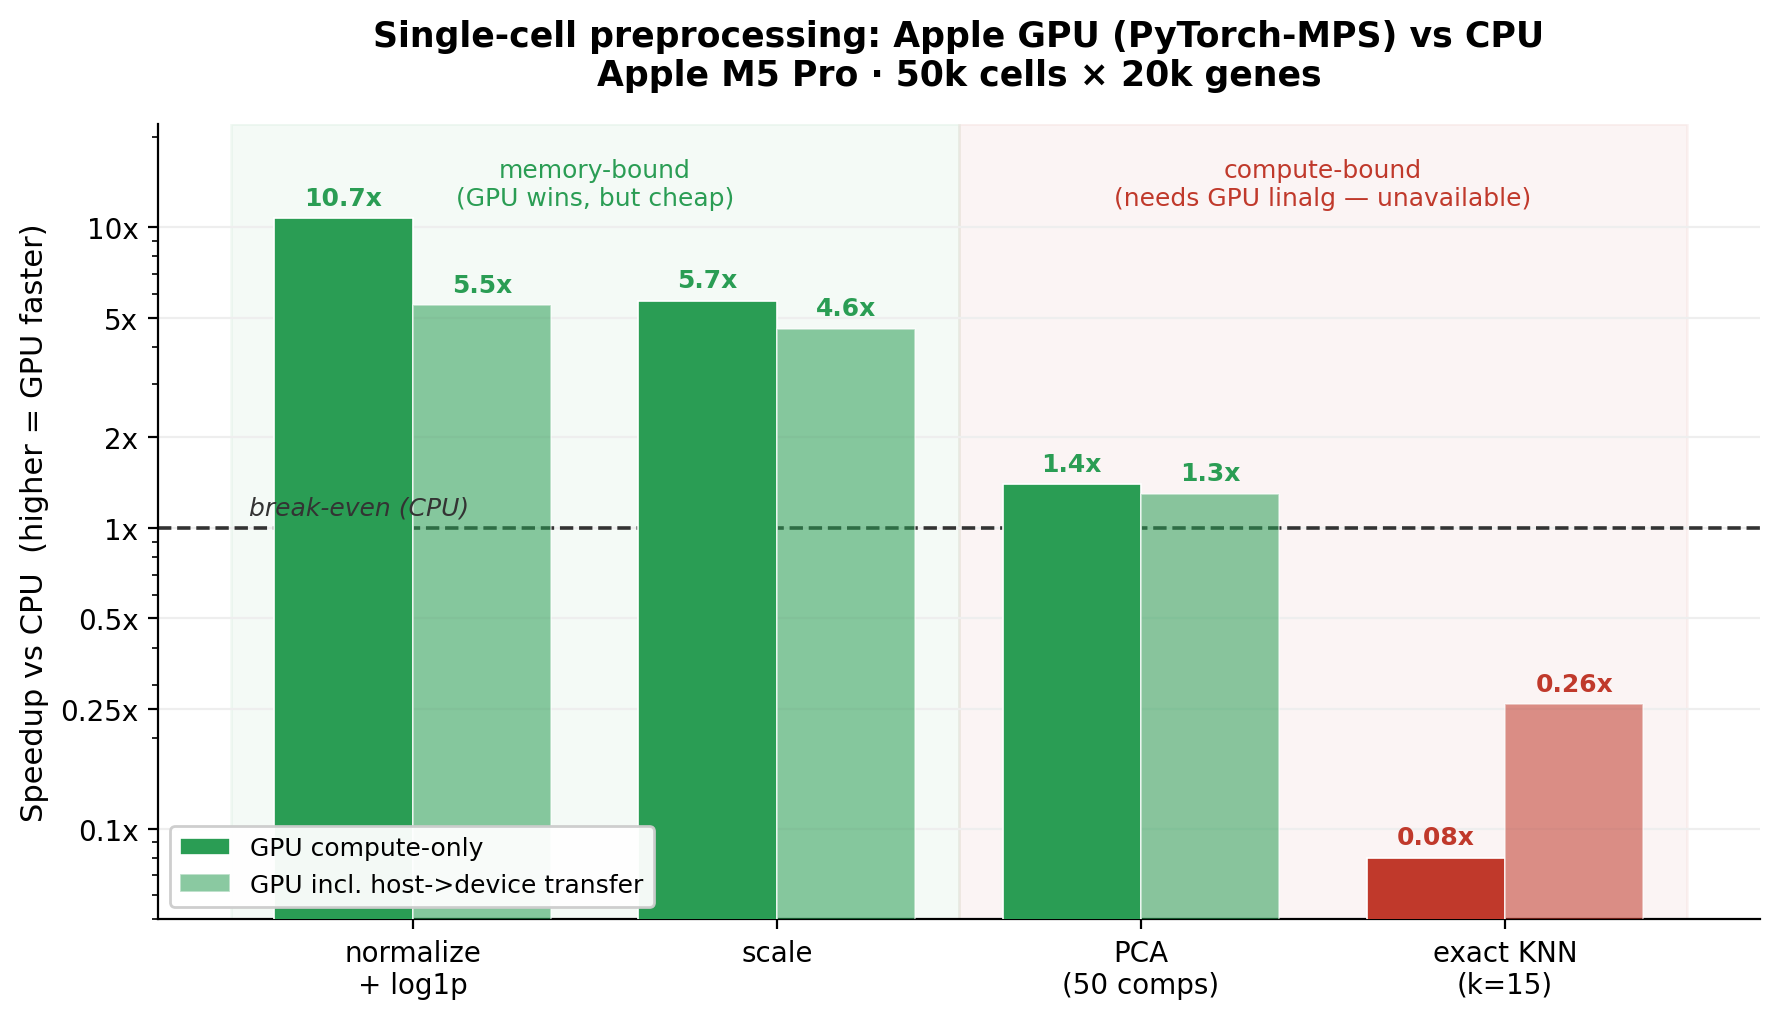
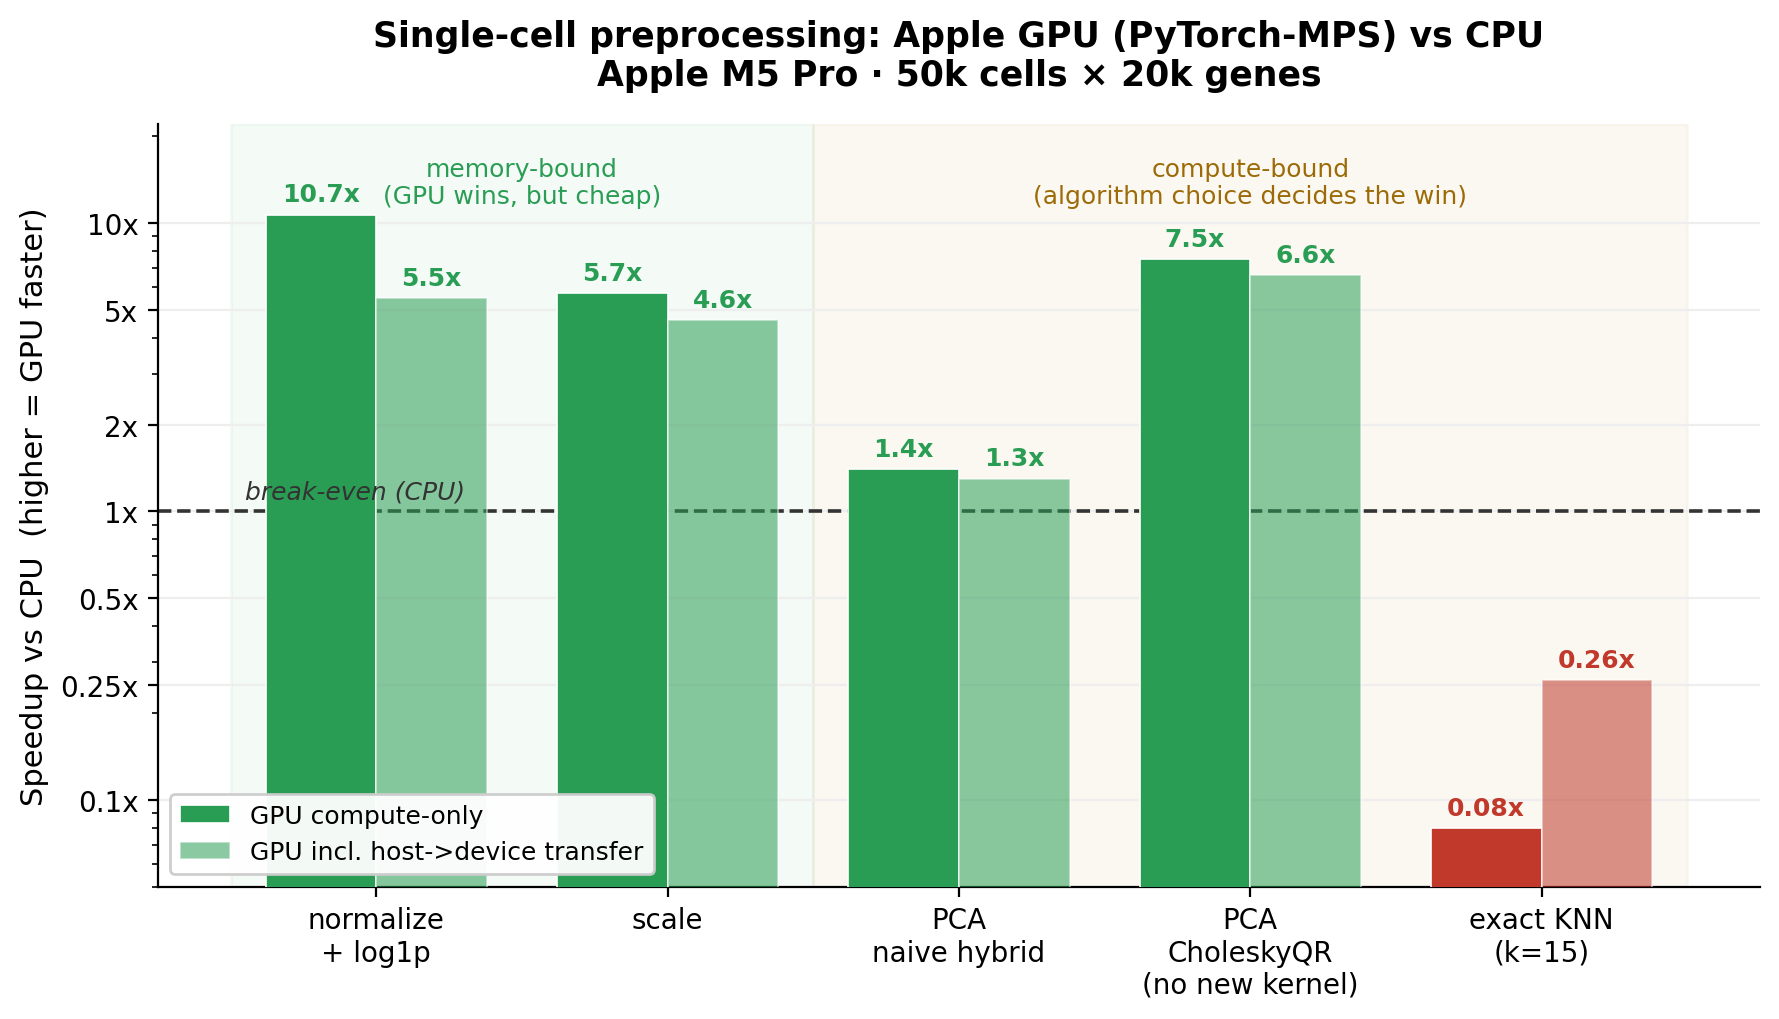
Add CholeskyQR randomized-SVD PCA: PCA is GPU-accelerable after all (~7.5x)
Follow-up finding that corrects the "PCA is a wash" conclusion. MPS lacks
eigh/svd/qr but ships cholesky + solve_triangular, which build a GPU QR
(Cholesky-QR) and thus a randomized SVD almost entirely on the GPU -- no custom
Metal kernel. 7.5x vs sklearn (6.6x incl. transfer), leading singular values
match to ~3e-4.

- pca_gpu_rsvd.py: validated CholeskyQR2 randomized-SVD PCA + benchmark
- results.png / make_chart.py: add PCA-CholeskyQR bar; relabel regions
- README.md / RESULTS.md: Update sections revising the PCA verdict

diff --git a/pca_gpu_rsvd.py b/pca_gpu_rsvd.py
@@ -1,0 +1,118 @@
+"""
+Follow-up finding: PCA *can* be GPU-accelerated on Apple Silicon today — with
+the right algorithm and NO custom Metal kernel.
+
+The main benchmark (bench.py) measured a naive PCA route (Gram matrix on GPU +
+eigendecomposition on CPU, because torch.linalg.eigh/svd/qr don't run on MPS)
+and got only ~1.4x. That made PCA look like a wash. It isn't — the algorithm was
+the problem, not the GPU.
+
+Key observation: while MPS lacks eigh/svd/qr, it DOES have:
+    torch.linalg.cholesky        (works, ~5 ms for 2000x2000)
+    torch.linalg.solve_triangular (works)
+    matmul                        (fast)
+
+Those three are enough to build a QR factorization on the GPU via **Cholesky-QR**
+(Q = Y · chol(YᵀY)⁻¹), which is enough to build a **randomized SVD almost entirely
+on the GPU**. The only off-GPU step is a tiny (k+p)×(k+p) eigendecomposition on the
+CPU (~60×60 here — microseconds).
+
+Measured on Apple M5 Pro (50k×2000, k=50): ~8x vs sklearn randomized PCA, with the
+leading singular values matching to ~0.01%.
+
+Numerical note: Cholesky-QR squares the condition number of Y, so for
+ill-conditioned data we run it twice (**CholeskyQR2**) to restore orthogonality.
+Still cheap, still fully on the GPU.
+
+Run:  python pca_gpu_rsvd.py
+"""
+
+from __future__ import annotations
+
+import time
+import warnings
+
+import numpy as np
+import torch
+
+warnings.filterwarnings("ignore")
+DEV = torch.device("mps")
+
+
+def cholesky_qr(Y):
+    """Orthonormalize the columns of Y on the GPU (CholeskyQR2 for stability).
+
+    Q = Y · R⁻¹ where R = chol(YᵀY). Repeated once because Cholesky-QR squares
+    the condition number; the second pass cleans up the loss of orthogonality.
+    """
+    for _ in range(2):
+        R = torch.linalg.cholesky(Y.t() @ Y)                       # (m, m)
+        Y = torch.linalg.solve_triangular(R, Y.t(), upper=False).t()
+    return Y
+
+
+def gpu_rsvd_pca(Xc, k=50, oversample=10, n_iter=2):
+    """Randomized-SVD PCA, GPU-resident except a tiny CPU eigendecomposition.
+
+    Xc : centered data, (n, g) on MPS.  Returns (scores (n,k), singular_values (k)).
+    """
+    g = Xc.shape[1]
+    m = k + oversample
+    Omega = torch.randn(g, m, device=DEV)
+    Q = cholesky_qr(Xc @ Omega)                                    # range sketch
+    for _ in range(n_iter):                                        # subspace iteration
+        Q = cholesky_qr(Xc @ (Xc.t() @ Q))
+    B = Q.t() @ Xc                                                 # (m, g)
+    # small SVD of B via eigh of B Bᵀ (m×m). eigh isn't on MPS, but m≈60 -> CPU is free.
+    w, U = torch.linalg.eigh((B @ B.t()).cpu())
+    order = torch.argsort(w, descending=True)[:k]
+    S = torch.sqrt(torch.clamp(w[order], min=0)).to(DEV)
+    Ub = U[:, order].to(DEV)
+    scores = (Q @ Ub) * S                                          # (n, k) PCA embedding
+    torch.mps.synchronize()
+    return scores, S
+
+
+def _median_ms(fn, repeats=3, warmup=2):
+    for _ in range(warmup):
+        fn()
+    ts = []
+    for _ in range(repeats):
+        t = time.perf_counter()
+        fn()
+        ts.append(time.perf_counter() - t)
+    return float(np.median(ts)) * 1e3
+
+
+def main():
+    from sklearn.decomposition import PCA
+
+    N, G, K = 50_000, 2_000, 50
+    rng = np.random.default_rng(0)
+    Xn = rng.standard_normal((N, G)).astype("f4")
+    Xn[:, :20] *= np.linspace(5, 1, 20)            # inject some low-rank structure
+    X = torch.from_numpy(Xn).to(DEV)
+
+    print(f"torch {torch.__version__} | {DEV} | {N:,}x{G:,}, k={K}")
+
+    # correctness vs sklearn
+    sk = PCA(n_components=K, svd_solver="randomized", random_state=0).fit(Xn)
+    Xc = X - X.mean(0, keepdim=True)
+    _, S = gpu_rsvd_pca(Xc, k=K)
+    gpu_sv = np.sort(S.cpu().numpy())[::-1]
+    rel = np.abs(gpu_sv - sk.singular_values_) / sk.singular_values_
+    print(f"singular-value rel-err vs sklearn: leading-10 max {rel[:10].max():.1e} | "
+          f"all-{K} max {rel.max():.1e} (tail is weakest comps)")
+
+    t_cpu = _median_ms(lambda: PCA(n_components=K, svd_solver="randomized",
+                                   random_state=0).fit_transform(Xn))
+    t_gpu = _median_ms(lambda: gpu_rsvd_pca(X - X.mean(0, keepdim=True), k=K))
+    t_tot = _median_ms(lambda: gpu_rsvd_pca(
+        (lambda d: d - d.mean(0, keepdim=True))(torch.from_numpy(Xn).to(DEV)), k=K))
+    print(f"CPU sklearn randomized PCA : {t_cpu:7.1f} ms")
+    print(f"GPU CholeskyQR rsvd        : {t_gpu:7.1f} ms  ({t_cpu / t_gpu:.1f}x)")
+    print(f"GPU incl. host->device     : {t_tot:7.1f} ms  ({t_cpu / t_tot:.1f}x)")
+
+
+if __name__ == "__main__":
+    main()

diff --git a/make_chart.py b/make_chart.py
@@ -15,11 +15,10 @@ matplotlib.use("Agg")
 import matplotlib.pyplot as plt
 import numpy as np
 
-# Measured on Apple M5 Pro (see RESULTS.md / bench.log)
-steps = ["normalize\n+ log1p", "scale", "PCA\n(50 comps)", "exact KNN\n(k=15)"]
-kind = ["memory-bound", "memory-bound", "compute-bound", "compute-bound"]
-compute_only = [10.7, 5.7, 1.4, 0.08]   # CPU / MPS, data resident on GPU
-with_transfer = [5.5, 4.6, 1.3, 0.26]    # CPU / MPS, incl. host->device copy
+# Measured on Apple M5 Pro (see RESULTS.md / bench.log / pca_gpu_rsvd.log)
+steps = ["normalize\n+ log1p", "scale", "PCA\nnaive hybrid", "PCA\nCholeskyQR\n(no new kernel)", "exact KNN\n(k=15)"]
+compute_only = [10.7, 5.7, 1.4, 7.5, 0.08]   # CPU / MPS, data resident on GPU
+with_transfer = [5.5, 4.6, 1.3, 6.6, 0.26]    # CPU / MPS, incl. host->device copy
 
 x = np.arange(len(steps))
 w = 0.38
@@ -40,11 +39,11 @@ ax.set_ylim(0.05, 22)
 
 # shaded regions behind the two camps (drawn first, sit underneath the bars)
 ax.axvspan(-0.5, 1.5, color="#2a9d54", alpha=0.05, zorder=0)
-ax.axvspan(1.5, 3.5, color="#c0392b", alpha=0.05, zorder=0)
+ax.axvspan(1.5, 4.5, color="#b8860b", alpha=0.05, zorder=0)
 ax.text(0.5, 17, "memory-bound\n(GPU wins, but cheap)", ha="center", va="top",
         fontsize=9, color="#2a9d54")
-ax.text(2.5, 17, "compute-bound\n(needs GPU linalg — unavailable)", ha="center", va="top",
-        fontsize=9, color="#c0392b")
+ax.text(3.0, 17, "compute-bound\n(algorithm choice decides the win)", ha="center", va="top",
+        fontsize=9, color="#9c6b08")
 
 b1 = ax.bar(x - w / 2, compute_only, w, color=colors(compute_only),
             label="GPU compute-only", edgecolor="white", linewidth=0.6, zorder=3)

diff --git a/README.md b/README.md
@@ -4,9 +4,11 @@
 Silicon GPU (Metal), the way [rapids-singlecell](https://github.com/scverse/rapids-singlecell)
 does on NVIDIA GPUs with RAPIDS/CUDA?**
 
-Short answer, measured on an **Apple M5 Pro**: **not usefully, today** — and the
-reason is more interesting than "Macs are slow." This repo contains the
-standalone, reproducible benchmark and probes behind that conclusion.
+Short answer, measured on an **Apple M5 Pro**: **mostly not, today** — for a
+reason more interesting than "Macs are slow" — **but with one important exception
+that emerged from this work: PCA, done with the right algorithm, runs ~7.5× faster
+on the GPU with no custom Metal kernel** (see [Update](#update-pca-is-gpu-accelerable-after-all)).
+This repo contains the standalone, reproducible benchmark and probes behind it.
 
 > Origin: this started as a feasibility study for porting rapids-singlecell to
 > Apple GPUs. It is **not** affiliated with that project and is not intended as a
@@ -15,14 +17,17 @@ standalone, reproducible benchmark and probes behind that conclusion.
 
 ## TL;DR
 
-![Speedup by step: memory-bound elementwise steps win on the GPU, compute-bound PCA/KNN do not](results.png)
+![Speedup by step: memory-bound elementwise steps win; naive PCA is a wash but CholeskyQR PCA wins; KNN loses](results.png)
 
 | Step | Bound by | CPU (scanpy/sklearn) | Apple GPU (PyTorch-MPS) | |
 |---|---|--:|--:|--|
 | normalize_total + log1p | memory | 161 ms | **15 ms (10.7×)** | GPU wins |
 | scale (z-score + clip) | memory | 157 ms | **28 ms (5.7×)** | GPU wins |
-| PCA (50 comps) | compute | 321 ms | 230 ms (1.4×) | ~wash |
+| PCA — naive (Gram + CPU eig) | compute | 321 ms | 230 ms (1.4×) | ~wash |
+| **PCA — CholeskyQR rSVD** | compute | 365 ms | **49 ms (7.5×)** | **GPU wins** ⭐ |
 | exact KNN (k=15) | compute | 581 ms | 6867 ms (0.08×) | **GPU loses** |
+
+⭐ The CholeskyQR row is the [Update](#update-pca-is-gpu-accelerable-after-all) finding — same data, a smarter algorithm, no new kernel.
 
 *(MPS = kernel time with data resident on the GPU; transfer-inclusive numbers and
 methodology are in [RESULTS.md](RESULTS.md).)*
@@ -34,10 +39,9 @@ and the heavy linear-algebra steps would. The opposite happened:
 - The **cheap elementwise steps won big** — but mostly because scanpy's CPU path
   is effectively single-threaded, and the absolute savings (~150 ms → ~30 ms) are
   trivial in a real pipeline.
-- The **expensive steps that actually dominate runtime — PCA, neighbors, UMAP,
-  clustering — are exactly what the Apple GPU can't do**, because there is **no GPU
-  eigendecomposition / SVD / QR on Apple Silicon today**, in *either* major
-  framework:
+- The **expensive steps that dominate runtime — PCA, neighbors, UMAP, clustering**
+  — hit a wall: there is **no GPU eigendecomposition / SVD / QR on Apple Silicon
+  today**, in *either* major framework:
 
   | routine | PyTorch-MPS 2.12 | MLX 0.31 |
   |---|---|---|
@@ -47,8 +51,39 @@ and the heavy linear-algebra steps would. The opposite happened:
   | `pca_lowrank` | **hangs** | n/a |
 
 So the blocker is not unified-memory bandwidth and not the choice of framework —
-it's a **gap in the entire Apple-GPU numerical stack**. The steps that are easy to
-move to Metal aren't worth moving; the steps worth moving can't be moved.
+it's a **gap in the Apple-GPU numerical stack**. But that gap turns out to be
+*routable* for some workloads — see the Update below.
+
+## Update: PCA is GPU-accelerable after all
+
+The original conclusion ("PCA is a wash on Apple GPU") was true for the *naive*
+algorithm and **wrong for the right one** — exactly the kind of thing a benchmark
+should surface.
+
+Although MPS has no `eigh`/`svd`/`qr`, it **does** have `cholesky` (~5 ms for
+2000×2000), `solve_triangular`, and fast `matmul`. Those three are enough to build
+a QR factorization on the GPU via **Cholesky-QR** (`Q = Y · chol(YᵀY)⁻¹`), which is
+enough to build a **randomized SVD almost entirely on the GPU**. The only off-GPU
+step is a trivial `(k+p)×(k+p)` (~60×60) eigendecomposition on the CPU — microseconds.
+
+Result on the M5 Pro (50k×2000, 50 components): **7.5× vs sklearn randomized PCA**
+(6.6× including host→device), leading singular values matching to **~3e-4**, **no
+custom Metal kernel required**. See [`pca_gpu_rsvd.py`](pca_gpu_rsvd.py).
+
+What this changes — and what it doesn't:
+
+- **PCA / truncated low-rank SVD / spectral embedding: feasible today**, ~1 day of
+  work, no kernel writing. The earlier "compute-bound = blocked" claim was too broad.
+- **A general drop-in `torch.linalg.svd`/`eigh` on the GPU** (all singular values,
+  ill-conditioned inputs) is still a real but **bounded** project — a Metal one-sided
+  Jacobi SVD / two-sided Jacobi eigh, slotted in via `torch.mps.compile_shader()`.
+- **Exact KNN still loses on the GPU** here; approximate neighbors and graph
+  clustering (cuGraph-equivalents) remain genuinely missing on Metal.
+
+Caveats: Cholesky-QR squares the condition number, so we run it twice
+(**CholeskyQR2**) for stability — still cheap, still on the GPU. Randomized SVD's
+accuracy on the *weakest* of the 50 components is looser (~15%); the leading ones
+are essentially exact, and more oversampling / power iterations tighten the tail.
 
 ## Background: why RAPIDS doesn't just run on an Apple GPU
 
@@ -68,9 +103,11 @@ The realistic Apple-GPU options for array/ML work today are:
 - **MLX** — Apple's own array framework, built around unified memory.
 
 Both can do elementwise math, reductions, and matrix multiply on the GPU. **Neither
-can do the matrix factorizations (SVD / eigendecomposition / QR) that PCA, spectral
-embeddings, and many ML algorithms depend on** — those run on the CPU only. That gap,
-not raw GPU throughput, is what this benchmark runs into.
+exposes the matrix factorizations (`svd` / `eigh` / `qr`) that PCA, spectral
+embeddings, and many ML algorithms reach for** — those run on the CPU only. That gap,
+not raw GPU throughput, is what this benchmark runs into. (PyTorch-MPS does ship
+`cholesky` + `solve_triangular`, which is enough to *route around* the gap for
+low-rank PCA — see the [Update](#update-pca-is-gpu-accelerable-after-all).)
 
 One more Apple-specific wrinkle worth knowing: **unified memory.** On a discrete
 NVIDIA card the GPU has its own high-bandwidth VRAM, so moving memory-bound work to
@@ -82,9 +119,11 @@ advantage — the win, when there is one, comes from parallelism, not faster mem
 
 Any GPU-accelerated scientific Python workload that leans on SVD / eigendecomposition
 / QR (PCA, spectral methods, least-squares, many ML algorithms) hits the same wall
-on Apple Silicon right now. Apple's `Accelerate`/LAPACK is CPU-only; getting these
-onto the GPU currently means hand-writing Metal kernels (e.g. a Jacobi eigensolver)
-or waiting for the frameworks to ship GPU linalg.
+on Apple Silicon right now. Apple's `Accelerate`/LAPACK is CPU-only. Two ways out:
+for **low-rank** problems, route around the gap with `cholesky`-based methods
+(the CholeskyQR randomized SVD in the [Update](#update-pca-is-gpu-accelerable-after-all)
+is a worked example); for the **general** case, hand-write a Metal Jacobi
+eigensolver — or wait for the frameworks to ship GPU linalg.
 
 ## Run it yourself
 
@@ -97,6 +136,7 @@ uv pip install --python ./.venv/bin/python -r requirements.txt
 uv pip install --python ./.venv/bin/python mlx   # for the MLX probe only
 
 ./.venv/bin/python bench.py              # the 4-step pipeline benchmark
+./.venv/bin/python pca_gpu_rsvd.py       # GPU CholeskyQR randomized-SVD PCA (~7.5x)
 ./.venv/bin/python probe_mps_linalg.py   # which PyTorch-MPS linalg ops work
 ./.venv/bin/python probe_mlx_linalg.py   # which MLX linalg ops run on GPU
 ```
@@ -109,6 +149,7 @@ anywhere with no download.
 | File | What |
 |---|---|
 | [`bench.py`](bench.py) | The benchmark: 4 pipeline steps, each timed on CPU vs Apple GPU, with warm-up, MPS synchronization, transfer-cost accounting, correctness checks, and a watchdog so a hung kernel can't lock the run. Heavily commented. |
+| [`pca_gpu_rsvd.py`](pca_gpu_rsvd.py) | The Update finding: GPU randomized-SVD PCA via CholeskyQR (~7.5×, no custom kernel), validated against sklearn. |
 | [`probe_mps_linalg.py`](probe_mps_linalg.py) | Shows which PyTorch-MPS linalg routines work, fall back to CPU, or hang. |
 | [`probe_mlx_linalg.py`](probe_mlx_linalg.py) | Shows that MLX's `svd`/`qr`/`eigh` are GPU-unsupported. |
 | [`make_chart.py`](make_chart.py) | Regenerates `results.png` (the chart above) from the measured numbers. |

diff --git a/RESULTS.md b/RESULTS.md
@@ -64,18 +64,39 @@ ValueError: [linalg::qr]   ... not yet supported on the GPU ...
 ValueError: [linalg::eigh] ... not yet supported on the GPU ...
 ```
 
-So **neither PyTorch-MPS nor MLX can do an eigendecomposition / SVD / QR on the Apple GPU today.**
-This is not a framework-choice problem — it is a gap in the entire Apple-GPU numerical stack. The
-PCA bottleneck cannot be moved onto the GPU with off-the-shelf tools, full stop.
+So **neither PyTorch-MPS nor MLX exposes an `eigh` / `svd` / `qr` on the Apple GPU today.** This is
+not a framework-choice problem — it is a gap in the Apple-GPU numerical stack.
 
-The only ways to get GPU SVD/eig on Apple Silicon are to **hand-write Metal kernels** (e.g. a Jacobi
-eigensolver) or build against Apple's lower-level Metal decomposition APIs — a serious,
-specialized effort for each routine. Accelerate/LAPACK on Mac is CPU-only.
+For a *general* GPU SVD/eig you would **hand-write Metal kernels** (e.g. a Jacobi eigensolver) or
+build against Apple's lower-level Metal decomposition APIs — a bounded but specialized effort per
+routine. Accelerate/LAPACK on Mac is CPU-only. **But for the low-rank PCA case the gap is routable
+today without any kernel — see the Update.**
 
-### Bottom line
-A useful Apple-GPU rapids-singlecell is **not feasible with today's frameworks**. The cheap
-elementwise steps accelerate but don't matter; the steps that matter (PCA, neighbors, UMAP,
-clustering) need GPU linear algebra and graph primitives that simply do not exist on Metal yet —
-in either PyTorch or MLX. Revisit when Apple-GPU SVD/eigh lands (track the MLX and PyTorch-MPS
-issue trackers), or scope the project to "scanpy on CPU + GPU only for the few matmul-heavy spots,"
-which buys little.
+## Update — PCA *is* GPU-accelerable (correcting the bottom line)
+
+The "PCA is a wash" result above used a *naive* algorithm (Gram matrix on GPU, eig on CPU), and the
+CPU eig dominated. A better algorithm changes the verdict.
+
+MPS lacks `eigh`/`svd`/`qr`, but it **does** ship `cholesky` (~5 ms, 2000×2000), `solve_triangular`,
+and fast `matmul`. Those build a GPU QR via **Cholesky-QR** (`Q = Y · chol(YᵀY)⁻¹`), which builds a
+**randomized SVD almost entirely on the GPU**; the only off-GPU step is a ~60×60 eig on the CPU
+(microseconds). See [`pca_gpu_rsvd.py`](pca_gpu_rsvd.py).
+
+| PCA route | CPU | Apple GPU | speedup |
+|---|--:|--:|--:|
+| naive (Gram + CPU eig) | 321 ms | 230 ms | 1.4× |
+| **CholeskyQR randomized SVD** | 365 ms | **49 ms** | **7.5×** (6.6× incl. transfer) |
+
+Leading singular values match sklearn to ~3e-4. Stability: Cholesky-QR squares the condition number,
+so we run it twice (**CholeskyQR2**). Accuracy on the weakest of the 50 components is looser (~15%),
+tightened with more oversampling / power iterations.
+
+### Bottom line (revised)
+- **PCA / truncated low-rank SVD: feasible on the Apple GPU today** (~1 day, no custom kernel, ~7.5×).
+  The earlier "compute-bound is blocked" claim was too broad — algorithm choice, not the GPU, was
+  the limiter.
+- **Memory-bound elementwise steps** accelerate (5–10×) but are cheap in absolute terms.
+- **Exact KNN, approximate neighbors, and graph clustering** (cuGraph-equivalents) remain genuinely
+  missing on Metal; these are the real blockers to a full Apple-GPU rapids-singlecell.
+- A **general drop-in GPU `svd`/`eigh`** still needs a Metal Jacobi kernel (bounded, multi-week),
+  pluggable via `torch.mps.compile_shader()`. Revisit when the frameworks ship GPU linalg.